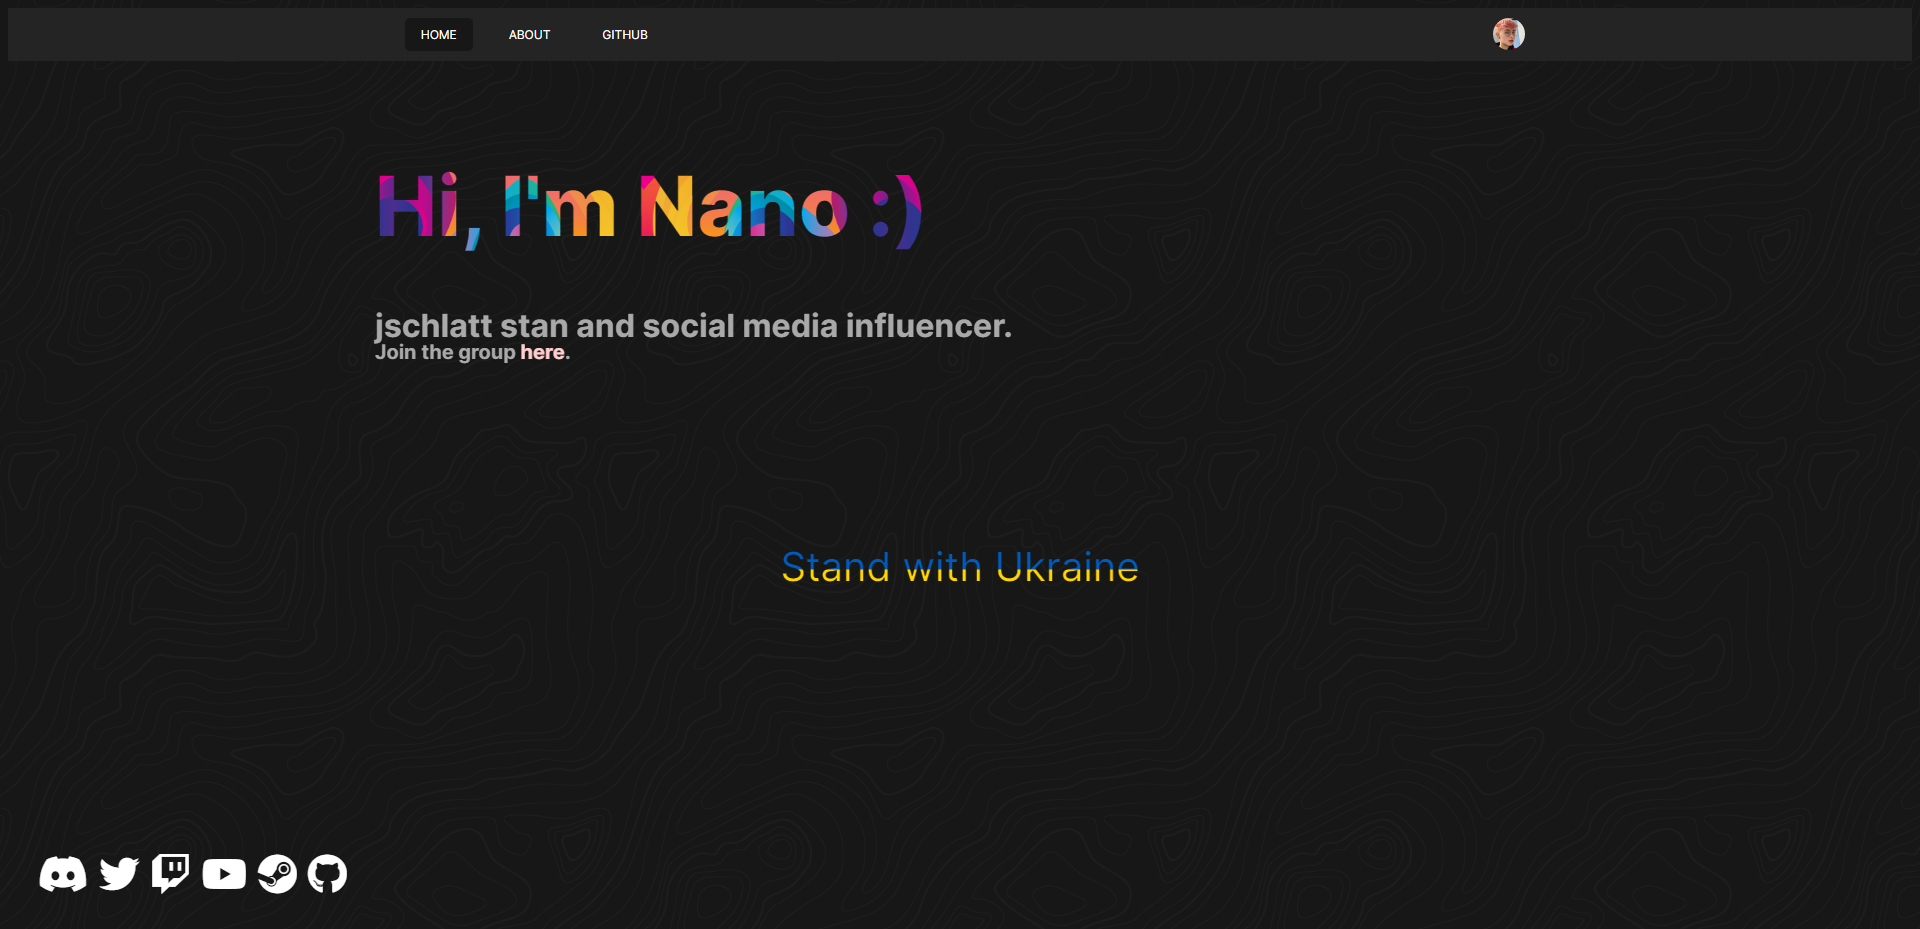
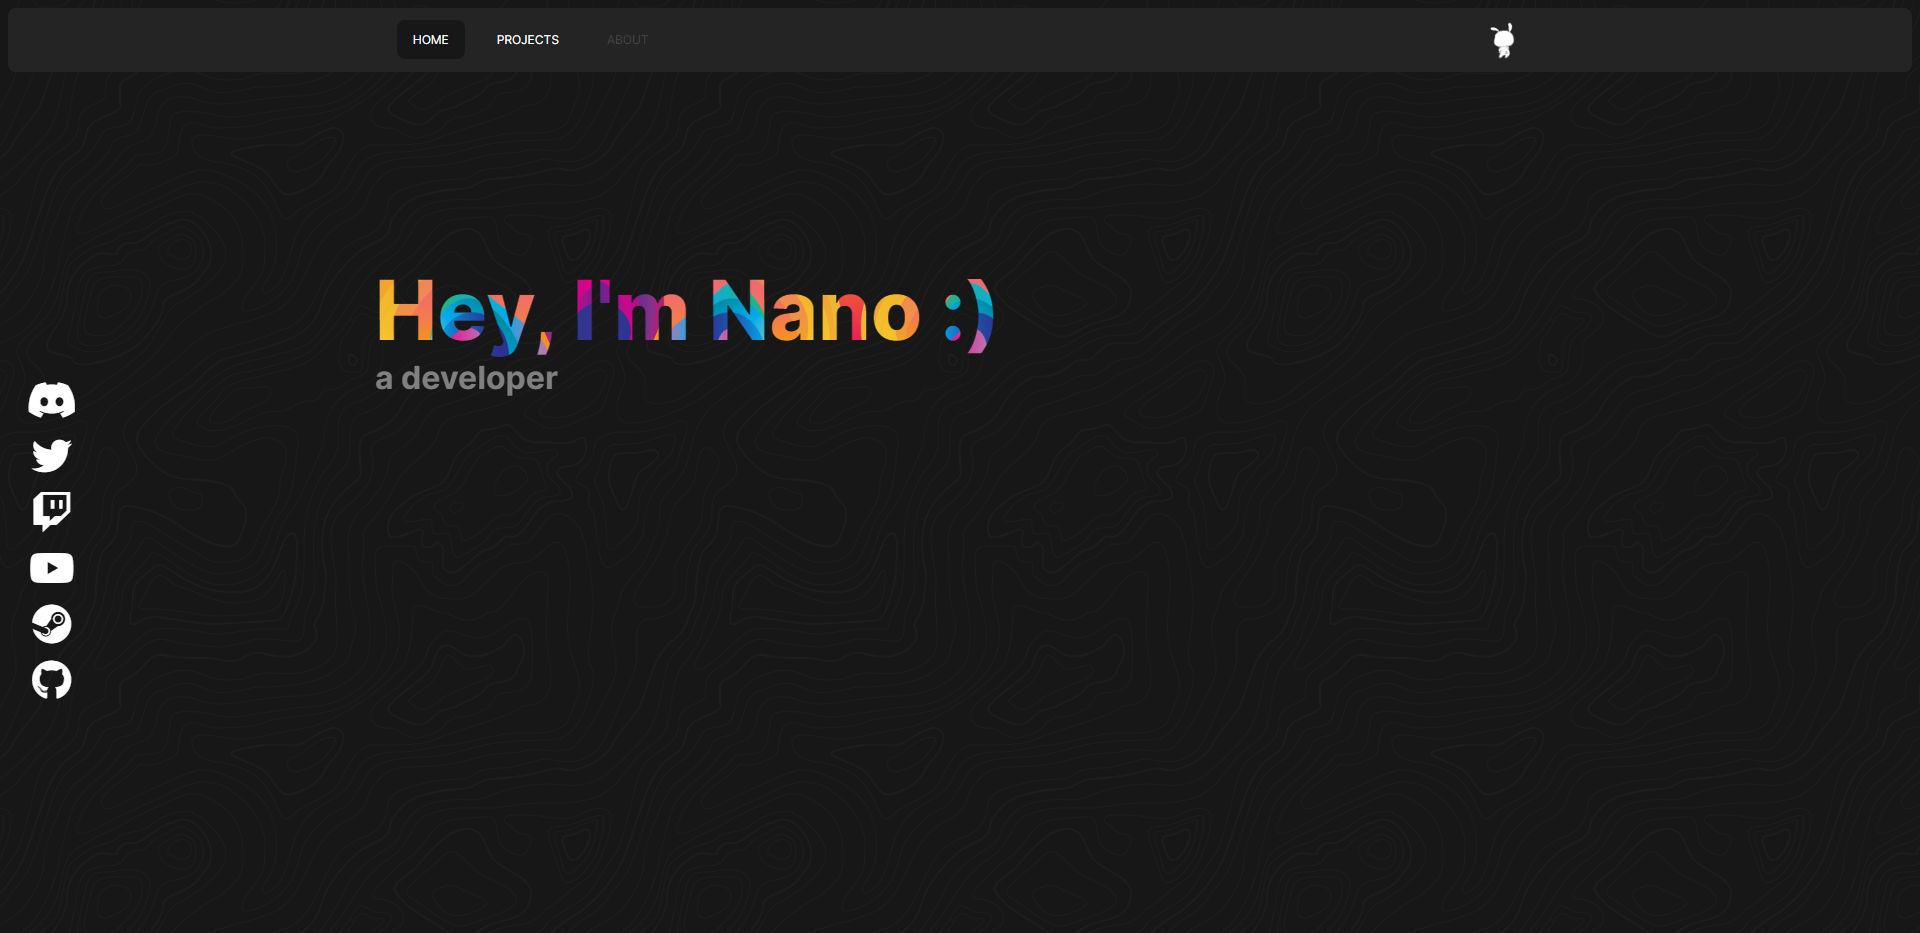
projects now on grid layout, optimization, cleanup

diff --git a/projects.html b/projects.html
@@ -18,7 +18,7 @@
     <meta property="og:description" content="Personal portfolio" />
     <meta property="og:image" content="assets/noise-texture-o5-d14-c-171717-t0.png" />
     <meta name="theme-color" content="#171717" />
-    <link rel="stylesheet" type="text/css" href="css/styles.css">
+    <link rel="stylesheet" type="text/css" href="css/main.css">
     <link href="https://unpkg.com/aos@2.3.1/dist/aos.css" rel="stylesheet">
     <script src="https://unpkg.com/aos@2.3.1/dist/aos.js" crossorigin="anonymous"></script>
     <script src="https://code.jquery.com/jquery-1.10.2.js" crossorigin="anonymous"></script>
@@ -36,7 +36,7 @@
         </div>
         <div class="navbtn-container">
             <div class="navbtn"><a class="nav-link" href="/" alt="Home">Home</a></div>
-            <div class="navbtn active"><a class="nav-link" href="/projects" alt="Projects">Projects</a></div>
+            <div class="navbtn active"><a class="nav-link" href="/projects/" alt="Projects">Projects</a></div>
             <div class="navbtn disabled">About</div>
         </div>
     </nav>
@@ -55,10 +55,8 @@
             <div class="infocard__content-wrapper">
                 <div class="infocard__description">You're here! A display of projects I've worked on and info about me. This will be updated when new projects are created.</div>
                 <div class="infocard__languages-container">
-                    <div class="infocard__languages-wrapper">
-                        <span class="tag css"></span>
-                        <span class="tag js"></span>
-                    </div>
+                    <span class="tag css"></span>
+                    <span class="tag js"></span>
                 </div>
             </div>
         </div>
@@ -67,14 +65,12 @@
             <div class="infocard__title">Project Dashboard</div>
             <div class="infocard__display"><img class="infocard img" src="docs/images/LRFG1.png" alt="Project Board Dashboard" /></div>
             <div class="infocard__content-wrapper">
-                <div class="infocard__description">Concept dashboard featuring an interactive calender, messaging system, team management and project workflow board.</div>
                 <div class="infocard__languages-container">
-                    <div class="infocard__languages-wrapper">
-                        <span class="tag css"></span>
-                        <span class="tag js"></span>
-                        <span class="tag mysql"></span>
-                    </div>
+                    <span class="tag css"></span>
+                    <span class="tag js"></span>
+                    <span class="tag mysql"></span>
                 </div>
+                <div class="infocard__description">Concept dashboard featuring an interactive calender, messaging system, team management and project workflow board.</div>
             </div>
         </div>
 
@@ -82,14 +78,12 @@
             <div class="infocard__title">Untitled Project</div>
             <div class="infocard__display"><img class="infocard img" src="docs/images/wxl6r.png" alt="" /></div>
             <div class="infocard__content-wrapper">
-                <div class="infocard__description">Redesign</div>
                 <div class="infocard__languages-container">
-                    <div class="infocard__languages-wrapper">
-                        <span class="tag css"></span>
-                        <span class="tag js"></span>
-                        <span class="tag php"></span>
-                    </div>
+                    <span class="tag css"></span>
+                    <span class="tag js"></span>
+                    <span class="tag php"></span>
                 </div>
+                <div class="infocard__description">Redesign</div>
             </div>
         </div>
 
@@ -97,43 +91,57 @@
             <div class="infocard__title">Website Team Members List</div>
             <div class="infocard__display"><img class="infocard img" src="docs/images/rJaOh.png" alt="Website Team Members List" /></div>
             <div class="infocard__content-wrapper">
-                <div class="infocard__description">Proof of concept staff team list featuring online status and pm & email buttons. This project also includes a seperate page to display previous staff team members.</div>
+                <div class="infocard__description">Proof of concept staff team list featuring online status and private message & email buttons.</div>
                 <div class="infocard__languages-container">
-                    <div class="infocard__languages-wrapper">
-                        <span class="tag tbd"></span>
-                        <span class="tag tailwind"></span>
-                    </div>
+                    <span class="tag tbd"></span>
+                    <span class="tag tailwind"></span>
                 </div>
             </div>
         </div>
 
+        <div></div>
+
+        <div class="infocard-wrapper">
+            <div class="infocard__title">FiveM</div>
+            <div class="infocard__display"><img class="infocard img" src="docs/images/z8ktl.png" alt="FiveM Game Server" /></div>
+            <div class="infocard__content-wrapper">
+                <div class="infocard__languages-container">
+                    <span class="tag lua"></span>
+                    <span class="tag mysql"></span>
+                    <span class="tag cs"></span>
+                    <span class="tag html"></span>
+                    <span class="tag css"></span>
+                    <span class="tag js"></span>
+                </div>
+            </div>
+        </div>
+
+        <!--
         <div class="infocard-wrapper">
             <div class="infocard__title">QA</div>
             <div class="infocard__display"><img class="infocard img" src="docs/images/0x2GI.png" alt="null" /></div>
             <div class="infocard__content-wrapper">
-                <div class="infocard__description">Do consequat veniam dolore quis amet cillum. Eu ipsum nisi tempor ipsum aliqua cillum enim nostrud. Irure enim pariatur voluptate non et dolore id culpa duis in aliquip eiusmod commodo. Veniam aliquip fugiat laborum Lorem. Duis fugiat
-                    anim laborum dolor magna dolore elit proident pariatur labore laboris magna ad. Pariatur anim aliqua veniam deserunt proident laborum enim aute.</div>
                 <div class="infocard__languages-container">
-                    <div class="infocard__languages-wrapper">
-                        <span class="tag cs"></span>
-                        <span class="tag html"></span>
-                        <span class="tag css"></span>
-                        <span class="tag scss"></span>
-                        <span class="tag js"></span>
-                        <span class="tag bootstrap"></span>
-                        <span class="tag react"></span>
-                        <span class="tag swift"></span>
-                        <span class="tag git"></span>
-                        <span class="tag tailwind"></span>
-                        <span class="tag mysql"></span>
-                        <span class="tag php"></span>
-                        <span class="tag nodejs"></span>
-                        <span class="tag ahk"></span>
-                        <span class="tag jquery"></span>
-                    </div>
+                    <span class="tag cs"></span>
+                    <span class="tag html"></span>
+                    <span class="tag css"></span>
+                    <span class="tag scss"></span>
+                    <span class="tag js"></span>
+                    <span class="tag bootstrap"></span>
+                    <span class="tag react"></span>
+                    <span class="tag swift"></span>
+                    <span class="tag git"></span>
+                    <span class="tag tailwind"></span>
+                    <span class="tag mysql"></span>
+                    <span class="tag php"></span>
+                    <span class="tag nodejs"></span>
+                    <span class="tag ahk"></span>
+                    <span class="tag jquery"></span>
+                    <span class="tag lua"></span>
                 </div>
             </div>
         </div>
+        -->
 
     </div>
     <div id="footer"></div>

diff --git a/css/main.css b/css/main.css
@@ -175,14 +175,13 @@ nav {
 }
 
 .infocard-wrapper {
-    width: 90%;
     display: inline-block;
     background: rgba(36, 36, 36, 0.5);
     box-shadow: 0 0 .4rem var(--clr-primary);
     padding: 1rem;
     border-radius: .35rem;
-    margin-bottom: 1rem;
     color: var(--clr-white);
+    margin-bottom: 1.5rem;
 }
 
 .infocard__title {
@@ -204,29 +203,26 @@ nav {
 
 .infocard__description {
     justify-self: flex-start;
-    flex: 70%;
+    flex: 80%;
     font-size: 1rem;
     background-color: var(--clr-primary);
     border-radius: .25rem;
     padding: .75rem;
-    min-height: 5.5rem;
+    min-height: 4rem
 }
 
 .infocard__languages-container {
     justify-self: flex-end;
-    flex: 30%;
+    flex: 20%;
     background-color: var(--clr-primary);
     border-radius: .35rem;
+    display: flex;
+    column-gap: .35rem;
+    row-gap: .35rem;
+    flex-wrap: wrap;
     padding: .5rem;
-}
-
-.infocard__languages-container::before {
-    content: "Languages";
-}
-
-.infocard__languages-wrapper {
-    margin-top: .25rem;
-    line-height: 1.5rem;
+    align-items: center;
+    justify-content: center;
 }
 
 .infocard__display {
@@ -238,19 +234,8 @@ nav {
 .infocard.img {
     height: 100%;
     width: 100%;
-    border-radius: .25rem;
-    box-shadow: 0 0 1rem var(--clr-primary);
-}
-
-.tag {
-    padding: 3px 4px 3px;
-    font-size: 11px;
-    font-weight: bold;
-    color: #fff;
-    text-transform: uppercase;
-    white-space: nowrap;
-    border-radius: 5px;
-    text-decoration: none;
+    border: 1px solid transparent;
+    border-image: url("../assets/EecPYwAAAABJRU5ErkJggg.png") 10% stretch;
 }
 
 .intro {
@@ -311,7 +296,7 @@ nav {
 }
 
 .project-subheader::before {
-    content: "Personal and collaborative works.";
+    content: "Personal and collaborative work.";
 }
 
 .animated-text,
@@ -432,18 +417,24 @@ footer {
         text-align: center;
     }
     .project-subheader::before {
-        content: "A collection of personal and collaborative works.";
+        content: "A collection of personal and collaborative work.";
+    }
+    .infocard-container {
+        margin: 1rem 10% 5rem 10%;
+        display: grid;
+        grid-template-columns: repeat(2, 50%);
+        grid-auto-rows: auto;
+        grid-gap: 1.75rem;
     }
     .infocard-wrapper {
-        width: 40%;
-        margin: 0 .6rem 1.5rem .6rem;
         padding: 2rem 2rem 1.5rem;
+        margin-bottom: unset;
     }
     .infocard__content-wrapper {
         flex-direction: row;
     }
-    .infocard__languages-wrapper {
-        margin-top: .75rem;
+    .infocard.img {
+        border-image: url("../assets/EecPYwAAAABJRU5ErkJggg.png") 1 stretch;
     }
     .animated-text {
         background: url("../assets/EecPYwAAAABJRU5ErkJggg.png") repeat;

diff --git a/index.html b/index.html
@@ -18,7 +18,7 @@
     <meta property="og:description" content="Personal portfolio" />
     <meta property="og:image" content="assets/noise-texture-o5-d14-c-171717-t0.png" />
     <meta name="theme-color" content="#171717" />
-    <link rel="stylesheet" type="text/css" href="css/styles.css">
+    <link rel="stylesheet" type="text/css" href="css/main.css">
     <link href="https://unpkg.com/aos@2.3.1/dist/aos.css" rel="stylesheet">
     <script src="https://unpkg.com/aos@2.3.1/dist/aos.js" crossorigin="anonymous"></script>
     <script src="https://code.jquery.com/jquery-1.10.2.js" crossorigin="anonymous"></script>
@@ -37,14 +37,14 @@
         </div>
         <div class="navbtn-container">
             <div class="navbtn active"><a class="nav-link" href="/" alt="Home">Home</a></div>
-            <div class="navbtn"><a class="nav-link" href="/projects" alt="Projects">Projects</a></div>
+            <div class="navbtn"><a class="nav-link" href="/projects/" alt="Projects">Projects</a></div>
             <div class="navbtn disabled">About</div>
         </div>
     </nav>
     <noscript><p class="fs-40 fw-800">You need to enable JavaScript to run this app.</p></noscript>
     <div class="intro">
         <h1 class="animated-text fw-800" id="greet"></h1>
-        <h2 data-aos="fade-zoom-in" data-aos-easing="ease-in-back" data-aos-duration="800">front-end web developer</h2>
+        <h2 data-aos="fade-zoom-in" data-aos-easing="ease-in-back" data-aos-duration="800">a developer</h2>
         <p data-aos="fade-zoom-in" data-aos-easing="ease-in-back" data-aos-duration="2000" id="quote"></p>
     </div>
     <div id="footer"></div>

diff --git a/about.html b/about.html
@@ -18,7 +18,7 @@
     <meta property="og:description" content="Personal portfolio" />
     <meta property="og:image" content="assets/noise-texture-o5-d14-c-171717-t0.png" />
     <meta name="theme-color" content="#171717" />
-    <link rel="stylesheet" type="text/css" href="css/styles.css">
+    <link rel="stylesheet" type="text/css" href="css/main.css">
     <link href="https://unpkg.com/aos@2.3.1/dist/aos.css" rel="stylesheet">
     <script src="https://unpkg.com/aos@2.3.1/dist/aos.js" crossorigin="anonymous"></script>
     <script src="https://code.jquery.com/jquery-1.10.2.js" crossorigin="anonymous"></script>
@@ -35,14 +35,14 @@
         </div>
         <div class="navbtn-container">
             <div class="navbtn"><a class="nav-link" href="/" alt="Home">Home</a></div>
-            <div class="navbtn"><a class="nav-link" href="/projects" alt="Projects">Projects</a></div>
+            <div class="navbtn"><a class="nav-link" href="/projects/" alt="Projects">Projects</a></div>
             <div class="navbtn active">About</div>
         </div>
     </nav>
     <noscript><p class="fs-40 fw-800">You need to enable JavaScript to run this app.</p></noscript>
     <div class="content-wrapper fs-40">
         <p style="text-align:center;">You've landed on the <a class="animated-text">about</a> page.</p>
-        <p style="text-align:right;">We're getting there! Check back at a later date for an update to this page.</p>
+        <p style="text-align:center;">We're getting there! Check back at a later date for an update to this page.</p>
     </div>
     <br>
     <div class="content-wrapper fs-40 qa">

diff --git a/404.html b/404.html
@@ -18,7 +18,7 @@
     <meta property="og:description" content="Personal portfolio" />
     <meta property="og:image" content="assets/noise-texture-o5-d14-c-171717-t0.png" />
     <meta name="theme-color" content="#171717" />
-    <link rel="stylesheet" type="text/css" href="css/styles.css">
+    <link rel="stylesheet" type="text/css" href="css/main.css">
     <link href="https://unpkg.com/aos@2.3.1/dist/aos.css" rel="stylesheet">
     <script src="https://unpkg.com/aos@2.3.1/dist/aos.js"></script>
     <script src="https://code.jquery.com/jquery-1.10.2.js"></script>
@@ -37,7 +37,7 @@
         <br><br>
         <a data-aos="zoom-in" href="/" style="color:darkslategray;">Click here if you are not redirected.</a>
     </div>
-    <script src="js/aosInit.js"></script>
+    <script src="js/init.js"></script>
 </body>
 
 </html>

diff --git a/css/tags.css b/css/tags.css
@@ -1,3 +1,14 @@
+.tag {
+    padding: 3px 4px 3px;
+    font-size: 11px;
+    font-weight: bold;
+    color: #fff;
+    text-transform: uppercase;
+    white-space: nowrap;
+    border-radius: 5px;
+    text-decoration: none;
+}
+
 .tag.tbd,
 .tag.tbd::before {
     content: "tbd";
@@ -93,4 +104,10 @@
 .tag.jquery::before {
     content: "jquery";
     background-color: #0277BD;
+}
+
+.tag.lua,
+.tag.lua::before {
+    content: "lua";
+    background-color: #000080;
 }

diff --git a/js/quote.js b/js/quote.js
@@ -5,6 +5,6 @@ $(document).ready(function() {
         "amazing things will happen today if you decide not to be a miserable cunt.",
         "maybe the only reason you think you're not good enough is because you're surrounded by a bunch of cunts."
     ];
-    var x = Math.floor((Math.random() * 4)); /* change number to fit how many quotes are in the array */
+    var x = Math.floor((Math.random() * text.length));
     $('#quote').html(text[x]);
 });
